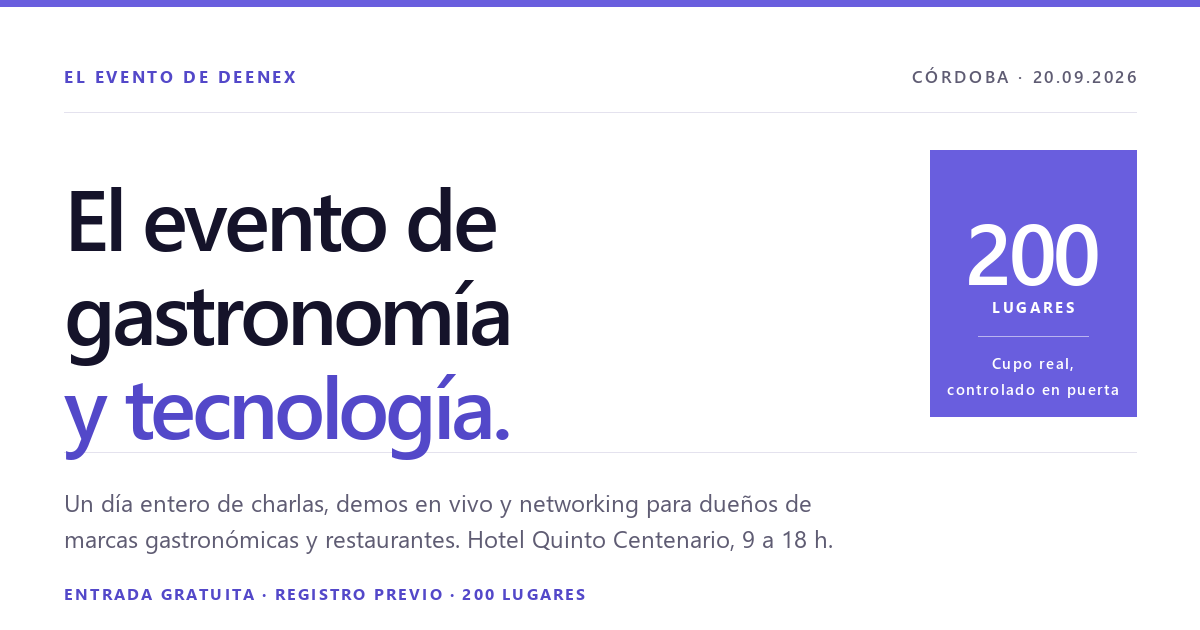
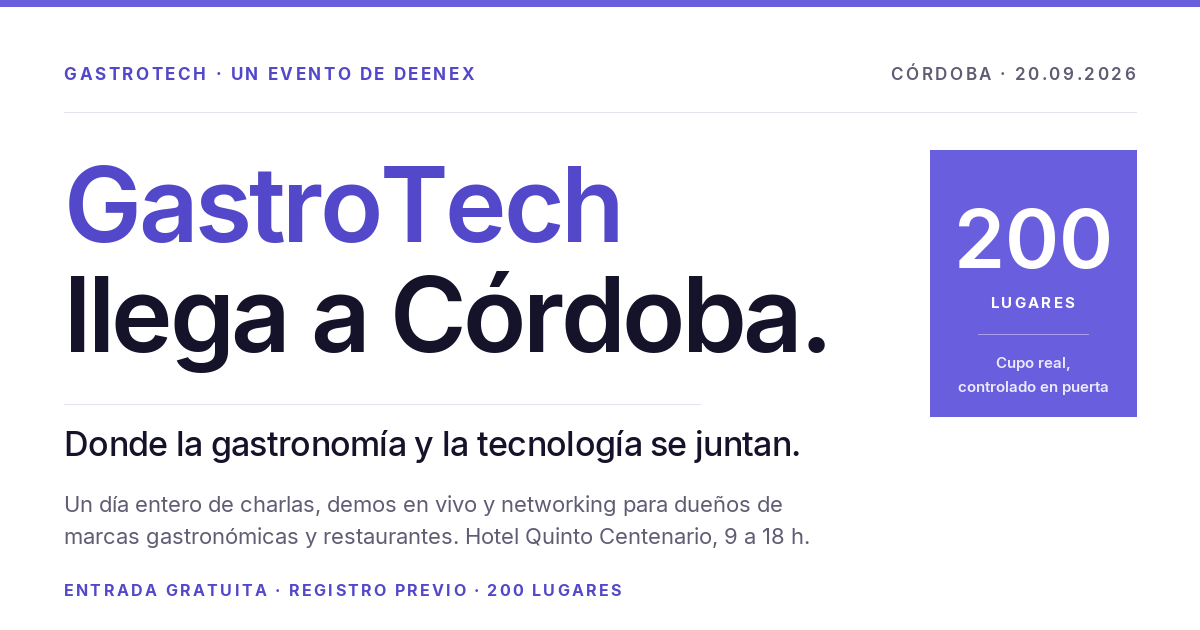
feat: el evento pasa a llamarse GastroTech
Hasta ahora se comunicaba sin nombre propio, como "el evento de Deenex".
Toma identidad: GastroTech, un evento de Deenex.

- Hero: "GastroTech llega a Córdoba", con el tagline "Donde la
  gastronomía y la tecnología se juntan" como línea destacada debajo.
- Navbar y pie llevan la marca con la firma de Deenex al lado, para que
  el evento gane nombre sin soltar la marca madre.
- El nombre, el organizador y el tagline salen de EVENTO en evento.js:
  se cambian en un solo lugar.
- Title, OG, Twitter, schema.org y keywords actualizados.
- Favicon e imagen social rehechos. El PNG social se generó con Inter
  real, que es el que leen WhatsApp y las redes.

diff --git a/index.html b/index.html
@@ -6,11 +6,11 @@
   <meta name="viewport" content="width=device-width, initial-scale=1.0" />
 
   <!-- SEO básico -->
-  <title>El evento de gastronomía y tecnología · Córdoba 20/09/2026</title>
+  <title>GastroTech · Córdoba 2026</title>
   <meta name="description"
     content="Un día de charlas, demos en vivo y networking para dueños de marcas gastronómicas. Domingo 20/09 en Córdoba. Entrada gratuita, 200 lugares." />
   <meta name="keywords"
-    content="evento gastronómico córdoba, tecnología gastronómica, inteligencia artificial gastronomía, sistemas POS, marketing gastronómico, deenex, dueños de restaurantes, marcas gastronómicas, foodservice, córdoba 2026" />
+    content="gastrotech, gastrotech córdoba, evento gastronómico córdoba, tecnología gastronómica, inteligencia artificial gastronomía, sistemas POS, marketing gastronómico, deenex, dueños de restaurantes, marcas gastronómicas, foodservice, córdoba 2026" />
   <meta name="author" content="Deenex Technologies" />
   <meta name="robots" content="index, follow" />
   <link rel="canonical" href="https://deenexproduct.github.io/evento-gastronomico/" />
@@ -19,9 +19,9 @@
   <!-- Open Graph / Facebook -->
   <meta property="og:type" content="website" />
   <meta property="og:url" content="https://deenexproduct.github.io/evento-gastronomico/" />
-  <meta property="og:title" content="El evento de gastronomía y tecnología · Córdoba" />
+  <meta property="og:title" content="GastroTech llega a Córdoba" />
   <meta property="og:description"
-    content="Un día entero de charlas y demos en vivo para dueños de marcas gastronómicas y restaurantes. Domingo 20 de septiembre, Hotel Quinto Centenario, Córdoba. 200 lugares." />
+    content="Donde la gastronomía y la tecnología se juntan. Un día entero de charlas y demos en vivo para dueños de marcas gastronómicas y restaurantes. Domingo 20 de septiembre, Hotel Quinto Centenario, Córdoba. 200 lugares." />
   <meta property="og:image" content="https://deenexproduct.github.io/evento-gastronomico/og-image.png" />
   <meta property="og:image:width" content="1200" />
   <meta property="og:image:height" content="630" />
@@ -32,7 +32,7 @@
 
   <!-- Twitter -->
   <meta property="twitter:card" content="summary_large_image" />
-  <meta property="twitter:title" content="El evento de gastronomía y tecnología · Córdoba" />
+  <meta property="twitter:title" content="GastroTech llega a Córdoba" />
   <meta property="twitter:description"
     content="Seis bloques sobre datos, IA, POS, contenido y ecosistema aplicados al negocio gastronómico. 200 lugares, entrada gratuita con registro." />
   <meta property="twitter:image" content="https://deenexproduct.github.io/evento-gastronomico/og-image.png" />
@@ -46,7 +46,7 @@
   {
     "@context": "https://schema.org",
     "@type": "BusinessEvent",
-    "name": "El evento de gastronomía y tecnología — Deenex, Córdoba 2026",
+    "name": "GastroTech — donde la gastronomía y la tecnología se juntan",
     "startDate": "2026-09-20T09:00:00-03:00",
     "endDate": "2026-09-20T18:00:00-03:00",
     "eventAttendanceMode": "https://schema.org/OfflineEventAttendanceMode",
@@ -62,7 +62,7 @@
         "addressCountry": "AR"
       }
     },
-    "description": "El primer evento propio de Deenex: un día entero de gastronomía y tecnología para dueños de marcas gastronómicas y restaurantes. Seis bloques de charla sobre el estado del mercado, datos e inteligencia artificial aplicados al negocio, la evolución de los sistemas POS con demos en vivo, cómo se hace hoy el contenido de una marca gastronómica y cómo se arma un ecosistema entre marcas, tecnología y proveedores. Con degustaciones, stands y mesa redonda de cierre.",
+    "description": "GastroTech, el primer evento propio de Deenex: un día entero de gastronomía y tecnología para dueños de marcas gastronómicas y restaurantes. Seis bloques de charla sobre el estado del mercado, datos e inteligencia artificial aplicados al negocio, la evolución de los sistemas POS con demos en vivo, cómo se hace hoy el contenido de una marca gastronómica y cómo se arma un ecosistema entre marcas, tecnología y proveedores. Con degustaciones, stands y mesa redonda de cierre.",
     "image": "https://deenexproduct.github.io/evento-gastronomico/og-image.png",
     "isAccessibleForFree": true,
     "offers": {

diff --git a/src/components/layout/Footer.vue b/src/components/layout/Footer.vue
@@ -3,10 +3,12 @@
     <div class="contenedor">
       <div class="grid gap-10 lg:grid-cols-12">
         <div class="lg:col-span-4">
-          <p class="text-[1rem] font-semibold tracking-[-0.02em]">El evento de Deenex</p>
+          <p class="text-[1.05rem] font-semibold tracking-[-0.02em]">
+            {{ EVENTO.nombre }}
+            <span class="font-normal text-gris">· un evento de {{ EVENTO.organiza }}</span>
+          </p>
           <p class="mt-3 max-w-[40ch] text-[0.9rem] leading-[1.65] text-gris">
-            Un día de gastronomía y tecnología para dueños de marcas gastronómicas y restaurantes.
-            {{ EVENTO.fechaLarga }}, {{ EVENTO.venue }}, Córdoba.
+            {{ EVENTO.bajada }} {{ EVENTO.fechaLarga }}, {{ EVENTO.venue }}, Córdoba.
           </p>
         </div>
 

diff --git a/src/components/layout/Navbar.vue b/src/components/layout/Navbar.vue
@@ -6,8 +6,10 @@
     <div class="contenedor">
       <div class="flex items-center justify-between gap-6 py-3.5">
         <a href="#hero" class="flex min-h-[40px] min-w-0 items-center gap-3" @click.prevent="arriba">
-          <span class="text-[0.95rem] font-semibold tracking-[-0.02em]">El evento de Deenex</span>
-          <span class="rotulo hidden text-gris sm:inline">{{ EVENTO.fechaNumerica }} · Córdoba</span>
+          <span class="text-[0.95rem] font-semibold tracking-[-0.02em]">{{ EVENTO.nombre }}</span>
+          <span class="rotulo hidden text-gris sm:inline">
+            un evento de {{ EVENTO.organiza }} · {{ EVENTO.fechaNumerica }}
+          </span>
         </a>
 
         <nav class="hidden items-center gap-7 lg:flex" aria-label="Secciones">

diff --git a/src/components/sections/HeroSection.vue b/src/components/sections/HeroSection.vue
@@ -10,9 +10,13 @@
       </dl>
 
       <!-- Titular -->
-      <h1 class="titular mt-14 max-w-[16ch] text-[clamp(2.5rem,6.6vw,5.6rem)]">
-        El evento de gastronomía <span class="text-violeta-texto">y tecnología</span>.
+      <h1 class="titular mt-14 max-w-[15ch] text-[clamp(2.5rem,6.6vw,5.6rem)]">
+        <span class="text-violeta-texto">{{ EVENTO.nombre }}</span> llega a Córdoba.
       </h1>
+
+      <p class="mt-7 max-w-[24ch] text-[clamp(1.15rem,2.4vw,1.8rem)] font-medium leading-[1.3] tracking-[-0.025em]">
+        {{ EVENTO.bajada }}
+      </p>
 
       <!-- Bajada + acción -->
       <div class="mt-12 grid gap-10 border-t border-linea pt-8 lg:grid-cols-12 lg:gap-8">

diff --git a/src/data/evento.js b/src/data/evento.js
@@ -10,6 +10,9 @@
 // ─────────────────────────────────────────────────────────────────────────────
 
 export const EVENTO = {
+  nombre: "GastroTech",
+  organiza: "Deenex",
+  bajada: "Donde la gastronomía y la tecnología se juntan.",
   fechaISO: "2026-09-20T09:00:00-03:00",
   fechaLarga: "Domingo 20 de septiembre de 2026",
   fechaCorta: "Domingo 20.09.2026",
